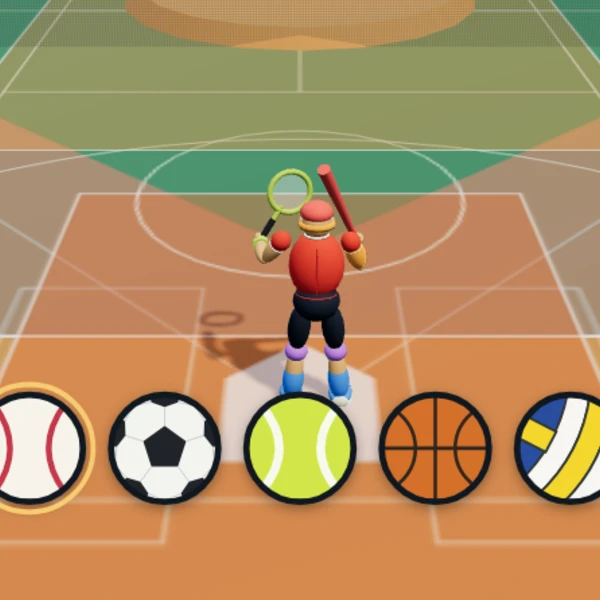
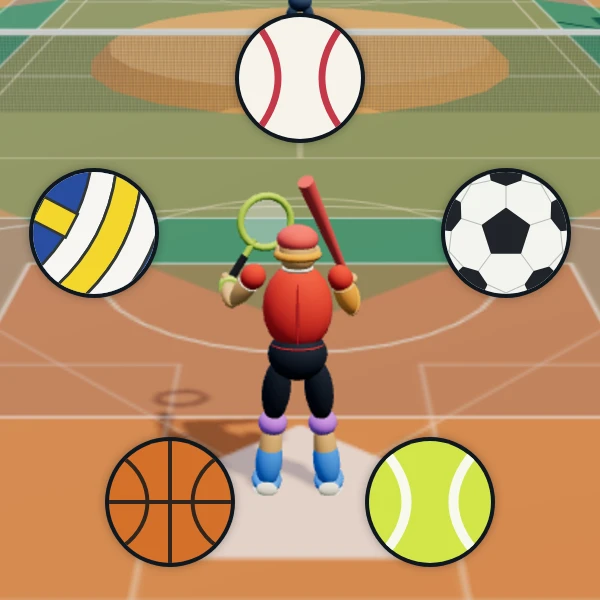
同時ボール: プレイヤーを5球が囲むサムネイルに変更

diff --git a/games/_tools/thumb-doji5.js b/games/_tools/thumb-doji5.js
@@ -1,0 +1,180 @@
+/* 同時ボールの専用サムネイル。数字や選択枠を除き、プレイヤーを5球で囲む。
+   node games/_tools/thumb-doji5.js doji5 -t 2.3 */
+
+var http = require("http");
+var fs = require("fs");
+var path = require("path");
+var os = require("os");
+var cp = require("child_process");
+var stopBrowser = require("./browser-stop");   /* 借りたブラウザを残さず止める */
+
+/* ---------------- 言われたことを読む ---------------- */
+var args = process.argv.slice(2);
+var id = null, secs = 3, firstKey = " ", topY = 90, topH = 170, quality = 90, query = "";
+for (var i = 0; i < args.length; i++) {
+  var a = args[i];
+  if (a === "-t") secs = Number(args[++i]);
+  else if (a === "-k") { var k = args[++i]; firstKey = (k === "なし" || k === "none") ? null : k; }
+  else if (a === "--top") topY = Number(args[++i]);
+  else if (a === "--toph") topH = Number(args[++i]);
+  else if (a === "--query") query = args[++i] || "";
+  else if (a === "-q") quality = Number(args[++i]);
+  else if (a[0] === "-") { console.log("知らない指定: " + a); process.exit(1); }
+  else id = a;
+}
+if (!id) { console.log("使い方: node games/_tools/thumb.js <id> [-t 秒] [--top y] [--toph h]"); process.exit(1); }
+
+var root = path.join(__dirname, "..", "..");
+var dir = fs.existsSync(path.join(root, "games", "_" + id)) ? "_" + id : id;
+var gamePath = path.join(root, "games", dir, "index.html");
+if (!fs.existsSync(gamePath)) { console.log("ゲームが無い: games/" + dir + "/index.html"); process.exit(1); }
+var out = path.join(root, "games", dir, "img", "thumb.webp");
+fs.mkdirSync(path.dirname(out), { recursive: true });
+
+/* ---------------- ゲームに足す、撮る係 ---------------- */
+var shot =
+'<script>\n' +
+'(function () {\n' +
+'  var SEC = __SEC__, KEY = __KEY__, TOPY = __TOPY__, TOPH = __TOPH__, Q = __Q__;\n' +
+'  function key(k) {\n' +
+'    var o = { key: k, code: k === " " ? "Space" : "", bubbles: true };\n' +
+'    window.dispatchEvent(new KeyboardEvent("keydown", o));\n' +
+'    setTimeout(function () { window.dispatchEvent(new KeyboardEvent("keyup", o)); }, 60);\n' +
+'  }\n' +
+'  function shoot() {\n' +
+'    var s = document.querySelector("canvas");\n' +
+'    if (!s) { fail("canvas が無い"); return; }\n' +
+'    var k = s.width / 540;\n' +
+'    var top = { y: TOPY, h: TOPH };\n' +
+'    var bot = { y: s.height / k - 540 + top.h, h: 540 - top.h };\n' +
+'    var cv = document.createElement("canvas");\n' +
+'    cv.width = cv.height = 600;\n' +
+'    var c = cv.getContext("2d");\n' +
+'    c.imageSmoothingQuality = "high";\n' +
+'    window.__thumbnail(c, s, k);\n' +
+
+'    cv.toBlob(function (b) {\n' +
+'      if (!b) { fail("書き出せない"); return; }\n' +
+'      b.arrayBuffer().then(function (buf) { fetch("/__save", { method: "POST", body: buf }); });\n' +
+'    }, "image/webp", Q / 100);\n' +
+'  }\n' +
+'  function fail(why) { fetch("/__fail", { method: "POST", body: why }); }\n' +
+'  window.addEventListener("error", function (e) { fail("ゲームが落ちた: " + e.message); });\n' +
+'  setTimeout(function () {\n' +
+'    if (KEY) key(KEY);\n' +
+'    setTimeout(shoot, SEC * 1000);\n' +
+'  }, 400);\n' +
+'})();\n' +
+'</script>';
+
+shot = shot.replace("__SEC__", String(secs))
+           .replace("__KEY__", firstKey == null ? "null" : JSON.stringify(firstKey))
+           .replace("__TOPY__", String(topY))
+           .replace("__TOPH__", String(topH))
+           .replace("__Q__", String(quality));
+
+/* ---------------- 配る側 ---------------- */
+var MIME = { ".html": "text/html; charset=utf-8", ".js": "text/javascript; charset=utf-8",
+             ".css": "text/css; charset=utf-8", ".json": "application/json",
+             ".png": "image/png", ".jpg": "image/jpeg", ".jpeg": "image/jpeg",
+             ".webp": "image/webp", ".gif": "image/gif", ".svg": "image/svg+xml",
+             ".mp3": "audio/mpeg", ".wav": "audio/wav", ".ogg": "audio/ogg" };
+
+var gameUrl = "/games/" + dir + "/index.html";
+var pageUrl = gameUrl + (query ? "?" + query.replace(/^\?/, "") : "");
+var ended = false, why = null;
+
+var server = http.createServer(function (req, res) {
+  var u = decodeURIComponent(req.url.split("?")[0]);
+
+  if (u === "/__save") {
+    var bits = [];
+    req.on("data", function (d) { bits.push(d); });
+    req.on("end", function () {
+      fs.writeFileSync(out, Buffer.concat(bits));
+      res.writeHead(200); res.end("ok");
+      finish();
+    });
+    return;
+  }
+  if (u === "/__fail") {
+    var s = [];
+    req.on("data", function (d) { s.push(d); });
+    req.on("end", function () {
+      why = Buffer.concat(s).toString();
+      res.writeHead(200); res.end("ok");
+      finish();
+    });
+    return;
+  }
+
+  var file = path.join(root, u.replace(/^\/+/, ""));
+  if (file.indexOf(root) !== 0 || !fs.existsSync(file) || fs.statSync(file).isDirectory()) {
+    res.writeHead(404); res.end(); return;
+  }
+  var ext = path.extname(file).toLowerCase();
+  res.writeHead(200, { "Content-Type": MIME[ext] || "application/octet-stream" });
+
+  if (u === gameUrl) {                         /* ゲームの本体にだけ、撮る係を足す */
+    var html = fs.readFileSync(file, "utf8").replace("drawPads(false);", "").replace("window.__probe =", "window.__thumbnail = function(output, source, k) {\n      output.drawImage(source, 55*k, (H*.685-245)*k, 430*k, 430*k, 0,0,600,600);\n      var original=ctx; ctx=output;\n      var positions=[[300,78],[506,233],[430,502],[170,502],[94,233]];\n      KEYS.forEach(function(kind,i){var p=positions[i];\n        ctx.save();ctx.shadowColor='rgba(0,0,0,.3)';ctx.shadowBlur=10;\n        ctx.beginPath();ctx.arc(p[0],p[1],65,0,Math.PI*2);ctx.fillStyle='#101820';ctx.fill();ctx.restore();\n        drawBall2D(kind,p[0],p[1],61);\n      });ctx=original;\n    };\n    window.__probe =");
+    res.end(html.indexOf("</body>") >= 0 ? html.replace("</body>", shot + "\n</body>") : html + shot);
+    return;
+  }
+  if (u.endsWith('/doji5/scene.js')) { res.end(fs.readFileSync(file,'utf8').replace('(5.2 - 16)', '(4.3 - 16)')); return; }
+  fs.createReadStream(file).pipe(res);
+});
+
+/* ---------------- 裏でブラウザを借りる ---------------- */
+function browser() {
+  var cands = [
+    "C:/Program Files/Google/Chrome/Application/chrome.exe",
+    "C:/Program Files (x86)/Google/Chrome/Application/chrome.exe",
+    "C:/Program Files (x86)/Microsoft/Edge/Application/msedge.exe",
+    "C:/Program Files/Microsoft/Edge/Application/msedge.exe"
+  ];
+  for (var i = 0; i < cands.length; i++) if (fs.existsSync(cands[i])) return cands[i];
+  return null;
+}
+
+var child = null, timer = null, usedProfile = null;
+
+server.listen(0, "127.0.0.1", function () {
+  var url = "http://127.0.0.1:" + server.address().port + pageUrl;
+  var exe = browser();
+  if (!exe) {
+    console.log("EdgeもChromeも見つかりません。");
+    console.log("自分でここを開けば、" + secs + "秒後に撮れます: " + url);
+    return;
+  }
+  var profile = usedProfile = fs.mkdtempSync(path.join(os.tmpdir(), "zthumb-"));
+  child = cp.spawn(exe, [
+    "--headless=new", "--disable-gpu", "--no-first-run", "--no-default-browser-check",
+    "--autoplay-policy=no-user-gesture-required",
+    "--window-size=430,900",                   /* タテ画面で動かす */
+    "--user-data-dir=" + profile, url
+  ], { stdio: "ignore" });
+  child.on("error", function (e) {
+    why = "ブラウザを立ち上げられない: " + e.message;
+    console.log(why);
+    console.log("自分でここを開いてください: " + url);
+  });
+  console.log(secs + "秒ぶん動かして撮ります…");
+  timer = setTimeout(function () { why = why || "時間切れ"; finish(); }, (secs + 25) * 1000);
+});
+
+function finish() {
+  if (ended) return;
+  ended = true;
+  if (timer) clearTimeout(timer);
+  stopBrowser(child, usedProfile);
+  server.close();
+
+  if (why || !fs.existsSync(out)) {
+    console.log("NG  " + (why || "撮れなかった"));
+    process.exit(1);
+  }
+  var n = fs.statSync(out).size;
+  console.log("OK  games/" + dir + "/img/thumb.webp  600x600  " + Math.round(n / 1024) + "KB");
+  console.log("※ 切り取り位置は --top / --toph で調整できます");
+  process.exit(0);
+}
